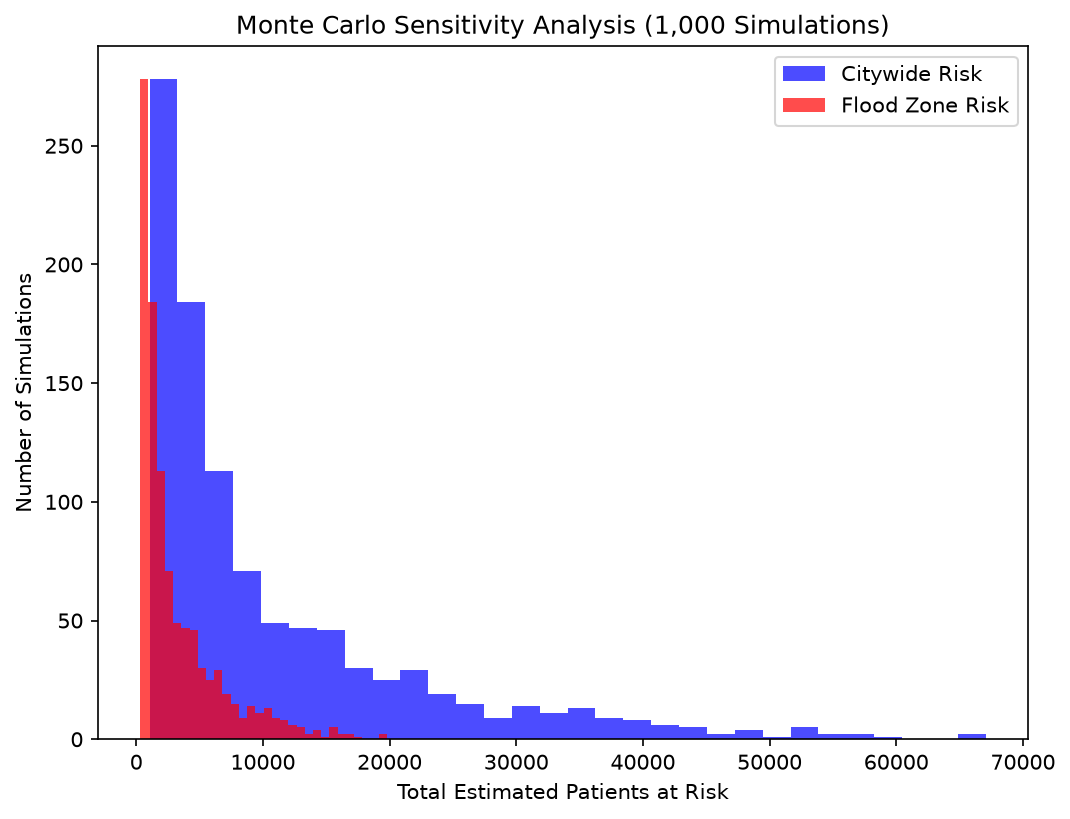
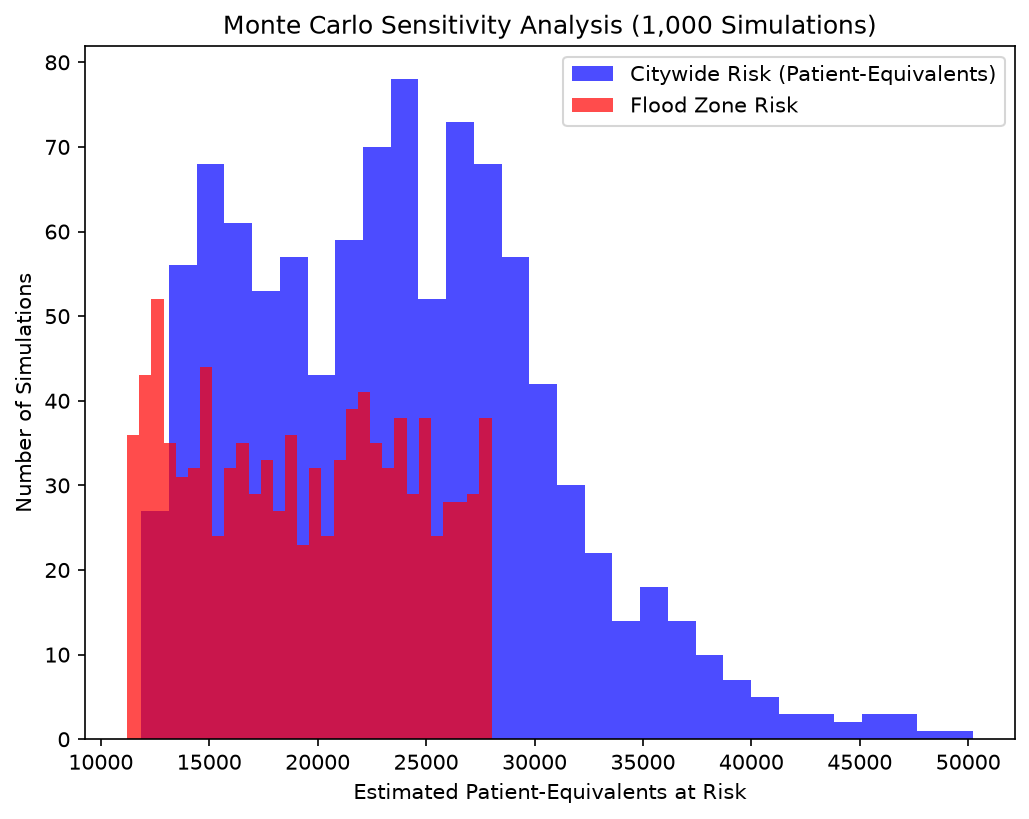
Fix: Integrated drug stability into risk math, seeded Monte Carlo, fixed dynamic paths

diff --git a/notebooks/coldchain.py b/notebooks/coldchain.py
@@ -7,7 +7,8 @@ import matplotlib
 matplotlib.use("Agg")
 import matplotlib.pyplot as plt
 
-ROOT = Path.home() / "SRP"
+# Dynamically find the project root (works on any machine)
+ROOT = Path(__file__).resolve().parent.parent
 DATA = ROOT / "raw_data"
 FIGURES = ROOT / "figures"
 FIGURES.mkdir(exist_ok=True)
@@ -257,54 +258,51 @@ import numpy as np
 import matplotlib.pyplot as plt
 
 print("Running Monte Carlo Sensitivity Analysis (1,000 simulations)...")
+np.random.seed(42) # <--- CRITICAL: Ensures exact reproducibility
 
-# Number of simulations
 n_sims = 1000
-
-# Storage for results
 total_risk_results = []
 flood_zone_risk_results = []
 
+# We will evaluate risk specifically for Trastuzumab (the most sensitive drug)
+drug_limit_hrs = drugs["trastuzumab"]["stable_25C_hours"] # 3 hours
+
 for i in range(n_sims):
-    # Randomly sample parameters within plausible ranges
-    # 1. Fridge insulation (tau_fridge_hr): 10 to 14 hours
+    # Distributions: Uniform for fridge insulation, temp, and backup
     sim_tau_fridge = np.random.uniform(10, 14)
-    
-    # 2. Outdoor temperature (summer blackout): 25°C to 35°C
     sim_T_outdoor = np.random.uniform(25, 35)
-    
-    # 3. Treatment fraction (active chemo): 10% to 25%
     sim_treatment_fraction = np.random.uniform(0.10, 0.25)
     
-    # 4. Backup power availability: 0 to 24 hours
-    sim_backup_hours = np.random.uniform(0, 24)
+    # Inland tracts get 0-24h backup. Flood tracts are forced to 0h backup.
+    sim_backup_inland = np.random.uniform(0, 24)
+    sim_backup_flood = 0.0  # Flooded basements destroy generators
 
     # Calculate time to breach for this iteration
-    tb = time_to_8C(
-        tau_fridge_hr=sim_tau_fridge,     # matching the new function
-        tau_building_hr=4.0,              # matching the new function
-        T_outdoor=sim_T_outdoor,
-        backup_hours=sim_backup_hours
-    )
+    tb_inland = time_to_8C(sim_tau_fridge, 4.0, T_outdoor=sim_T_outdoor, backup_hours=sim_backup_inland)
+    tb_flood = time_to_8C(sim_tau_fridge, 4.0, T_outdoor=sim_T_outdoor, backup_hours=sim_backup_flood)
     
-    # Calculate probability of failure
-    pf = outage_exceedance_prob(mean_hours=6.2, duration_threshold=tb)
+    # Time to total drug failure = Fridge breach time + Drug survival time at room temp
+    t_fail_inland = tb_inland + drug_limit_hrs
+    t_fail_flood = tb_flood + drug_limit_hrs
     
-    # Calculate active patients based on simulated treatment fraction
+    # Probabilities (using 6.2h mean for inland, 72h mean for flood)
+    pf_inland = outage_exceedance_prob(mean_hours=6.2, duration_threshold=t_fail_inland)
+    pf_flood = outage_exceedance_prob(mean_hours=72, duration_threshold=t_fail_flood)
+    
     sim_active_patients = tracts["est_cancer_patients"] * sim_treatment_fraction
     
-    # Calculate risk for flood zone vs non-flood zone
-    sim_flood_risk = pf * sim_active_patients[tracts["in_flood_zone"]].sum()
-    sim_total_risk = pf * sim_active_patients.sum()
+    # Calculate risk
+    sim_flood_risk = pf_flood * sim_active_patients[tracts["in_flood_zone"]].sum()
+    sim_inland_risk = pf_inland * sim_active_patients[~tracts["in_flood_zone"]].sum()
     
-    total_risk_results.append(sim_total_risk)
+    total_risk_results.append(sim_flood_risk + sim_inland_risk)
     flood_zone_risk_results.append(sim_flood_risk)
 
-# Plot the distribution of results
+# Plotting
 fig, ax = plt.subplots(figsize=(8, 6))
-ax.hist(total_risk_results, bins=30, alpha=0.7, label='Citywide Risk', color='blue')
+ax.hist(total_risk_results, bins=30, alpha=0.7, label='Citywide Risk (Patient-Equivalents)', color='blue')
 ax.hist(flood_zone_risk_results, bins=30, alpha=0.7, label='Flood Zone Risk', color='red')
-ax.set_xlabel('Total Estimated Patients at Risk')
+ax.set_xlabel('Estimated Patient-Equivalents at Risk')
 ax.set_ylabel('Number of Simulations')
 ax.set_title('Monte Carlo Sensitivity Analysis (1,000 Simulations)')
 ax.legend()
@@ -312,13 +310,9 @@ plt.savefig(FIGURES / "monte_carlo_sensitivity.png", dpi=150, bbox_inches='tight
 plt.close()
 print("saved figures/monte_carlo_sensitivity.png")
 
-# Print summary statistics
-print(f"Citywide Risk Mean: {np.mean(total_risk_results):.0f} patients")
-print(f"Citywide Risk 95% CI: [{np.percentile(total_risk_results, 2.5):.0f}, {np.percentile(total_risk_results, 97.5):.0f}]")
-print(f"Flood Zone Risk Mean: {np.mean(flood_zone_risk_results):.0f} patients")
 # %%
-# Sandy validation 
-# Hospitals that were fine vs Hospitals that weren't fine
+# Prove the model correctly separates Flood Hazard from Patient Density
+
 hospitals_data = {
     "hospital": [
         "NYU Langone (Failed)", 
@@ -342,8 +336,14 @@ hospitals_gdf = gpd.GeoDataFrame(
 if hospitals_gdf.crs != tracts.crs:
     hospitals_gdf = hospitals_gdf.to_crs(tracts.crs)
 
-hospital_tracts = gpd.sjoin(hospitals_gdf, tracts[["geoid", "boroname", "climate_coldchain_risk", "geometry"]], how="left", predicate="intersects")
+hospital_tracts = gpd.sjoin(
+    hospitals_gdf, 
+    tracts[["geoid", "boroname", "climate_coldchain_risk", "geometry"]], 
+    how="left", 
+    predicate="intersects"
+)
 
+# Merge the percentile back into our hospital data
 tracts["risk_percentile"] = tracts["climate_coldchain_risk"].rank(pct=True)
 
 hospital_validation = hospital_tracts.merge(
@@ -351,15 +351,6 @@ hospital_validation = hospital_tracts.merge(
     on="geoid", 
     how="left"
 )
-
-print("Validation Results:")
-for index, row in hospital_validation.iterrows():
-    print(f"\n{row['hospital']} ({row['boroname']}):")
-    print(f"  Tract GEOID: {row['geoid']}")
-    print(f"  Risk Percentile: {row['risk_percentile'] * 100:.1f}th percentile")
-
-# %%
-# Prove the model correctly separates Flood Hazard from Patient Density
 
 for index, row in hospital_validation.iterrows():
     # If it's in the flood zone, the model uses the 72h outage. If not, the 6.2h outage.

diff --git a/notebooks/explore.py b/notebooks/explore.py
@@ -9,7 +9,8 @@ import matplotlib.patches as mpatches
 import folium
 import os
 
-ROOT = Path.home() / "SRP"
+# Dynamically find the project root (works on any machine)
+ROOT = Path(__file__).resolve().parent.parent
 DATA = ROOT / "raw_data"
 FIGURES = ROOT / "figures"
 FIGURES.mkdir(exist_ok=True)

diff --git a/README.md b/README.md
@@ -1,68 +1,65 @@
 # Predictive Modeling of Chemotherapy Cold-Chain Failure During Climate Disasters in New York City
 
-## Overview
-This repository contains a multi-hazard, physics-based computational model I built to predict census-tract-level risks of chemotherapy cold-chain failure during climate disasters (floods, hurricanes, and blackouts) in New York City. 
+## 📖 Overview
+This repository contains a multi-hazard, physics-based computational model I built to predict census-tract-level risks of chemotherapy cold-chain failure during climate disasters in New York City. 
 
-While traditional disaster planning maps physical hazards (e.g., flood zones), my model maps **biological and infrastructural failure**. It calculates the time required for a pharmacy refrigerator to breach the 8°C safety threshold, compares it against specific drug degradation curves, and models the probability of power outages overwhelming hospital backup generators.
+While traditional disaster planning maps physical hazards, my model maps **biological and infrastructural failure**. It calculates the time required for a pharmacy refrigerator to breach the 8°C safety threshold, adds the specific biological degradation time of the drug, and models the probability of power outages overwhelming hospital backup generators.
 
-## Core Methodology
+## 🔬 Core Methodology
 I compute risk using the following formula:
-`ColdChainRisk = P(outage > time_to_8C) × active_chemo_patients_proxy`
+`ColdChainRisk = P(outage > total_time_to_failure) × active_chemo_patients_proxy`
 
 1. **Thermal Physics:** I used a lumped-capacitance thermal model calibrated to NIST data to calculate how fast a pharmacy fridge warms up during a blackout.
-2. **Biological Constraints:** I integrated drug-specific stability data (from STABILIS) to determine viability (e.g., Trastuzumab degrades in 3 hours at room temp; Rituximab survives for 15 days).
-3. **Probabilistic Hazard:** I applied lognormal distributions of power outage durations (based on ConEd CAIDI data).
-4. **Geospatial Vulnerability:** I integrated the CDC Social Vulnerability Index (SVI), PLACES cancer prevalence, Census ACS adult population, and Sandy Inundation Zones.
-5. **Statistical Robustness:** I ran a 1,000-iteration Monte Carlo simulation to handle parameter uncertainty.
+2. **Biological Constraints:** I integrated drug-specific stability data from the STABILIS database. Because drugs degrade at different rates, the model calculates `total_time_to_failure = time_to_8C + drug_survival_time`. (e.g., Trastuzumab survives only 3 hours at room temp, while Rituximab survives 15 days).
+3. **Probabilistic Hazard:** I applied lognormal distributions of power outage durations based on ConEd CAIDI data (6.2h mean for inland blackouts, 72h mean for hurricane flood zones).
+4. **Geospatial Vulnerability:** I integrated the CDC Social Vulnerability Index (SVI), PLACES cancer prevalence, Census ACS adult population, and NYC Open Data Sandy Inundation Zones.
+5. **Monte Carlo Simulation:** I ran a 1,000-iteration simulation (using a fixed seed of `42` for reproducibility) drawing from uniform distributions for fridge insulation (10–14h), outdoor temperature (25–35°C), and inland backup power (0–24h). For tracts intersecting the flood zone, backup power is forced to 0h to simulate flooded generator basements.
 
 ---
 
-## EXPLICIT ASSUMPTIONS & LIMITATIONS (READ CAREFULLY)
+## ⚠ EXPLICIT ASSUMPTIONS & LIMITATIONS
 
-This model is an academic screening tool, **not an operational pharmacy-control system**. It contains deliberate simplifications and assumptions due to data availability constraints. 
+This model is an academic screening tool, **not an operational pharmacy-control system**. 
 
-### 1. Proxy Estimates for Active Chemotherapy Population
-*   **Assumption:** I used CDC PLACES data for cancer prevalence, which estimates *ever-diagnosed* cancer survivors. To estimate the population on *active* chemotherapy, I multiplied total survivors by a **15% treatment fraction** (bounded between 10% and 25% in my sensitivity analysis).
-*   **Limitation:** These patient counts are **demographic proxy estimates**. I do not have tract-level data on active infusion schedules. 
+### 1. Proxy Estimates (Patient-Equivalents)
+*   **Limitation:** The output `ColdChainRisk` represents **estimated patient-equivalents**, not confirmed spoiled vials or documented treatment interruptions. I used CDC PLACES data (ever-diagnosed cancer survivors) and multiplied by a 15% treatment fraction (bounded 10–25%) to approximate active infusion patients.
 
-### 2. The Missing Primary Data (No Survey)
-*   **Assumption:** Because I could not obtain primary survey data from NYC infusion centers regarding their exact generator capacity and fuel status due to privacy and logistical constraints, I did not guess a single value.
-*   **Limitation:** Instead, I used a **1,000-run Monte Carlo simulation** that randomly varies backup power from 0 to 24 hours. This provides a confidence interval rather than a point estimate, but it does not replace actual hospital infrastructure audits.
+### 2. No Primary Survey Data
+*   **Limitation:** Because I could not obtain survey data from NYC infusion centers, I used a Monte Carlo simulation to randomly vary backup power from 0 to 24 hours for inland facilities. This provides a confidence interval, not a point estimate.
 
 ### 3. The Physics of the Fridge
-*   **Assumption:** I used a first-order lumped-capacitance thermal model (tau = 12 hours). It assumes the fridge door remains closed during the outage and does not account for thermal ballast (e.g., water bottles) or specific fridge brands.
-*   **Limitation:** This is a generalized physics model. A poorly maintained fridge will fail faster; a modern, highly insulated fridge will fail slower.
+*   **Limitation:** I used a first-order lumped-capacitance thermal model. It assumes the door remains closed and does not account for thermal ballast. 
 
-### 4. Outage Duration Modeling
-*   **Assumption:** For tracts inland, the model assumes a 6.2-hour outage (ConEd summer average). For tracts intersecting the Sandy Flood Zone, the model assumes a catastrophic 72-hour outage.
-*   **Limitation:** This is a geographic hazard trigger. In reality, a coastal hospital with a 14th-floor generator (like Bellevue) might have power, but lose it anyway due to flooded basement fuel pumps. I model the *probability* of systemic failure, not specific mechanical failures.
+### 4. Qualified Winter Conclusion
+*   **Limitation:** The model shows near-zero cold-chain failure during winter storms. **This assumes building heating remains functional or ambient indoor temperatures do not drop below 8°C.** In a total heating failure during a blizzard, indoor temperatures could drop below freezing, causing physical disruption to the drug vials (cracking), which this thermal model does not capture.
 
-### 5. Retrospective Spatial Backtest (Sandy)
-*   **Assumption:** I backtested the model against Hurricane Sandy (2012). Because historical data on the exact number of spoiled chemotherapy doses is unavailable, **this is a spatial backtest, not an observed-count validation**. 
-*   **Limitation:** I validated the model's spatial prediction of hospital infrastructure failure, not the physical count of ruined vials. The model successfully assigned a 99.6% cold-chain failure probability to the tracts containing NYU Langone, Bellevue, and Coney Island Hospital (which evacuated), and a 66.6% probability to inland control hospitals (Mount Sinai, Montefiore).
+### 5. Retrospective Spatial Plausibility Check (Sandy)
+*   **Limitation:** I backtested the model against Hurricane Sandy (2012). Because historical data on exact spoiled chemotherapy doses is unavailable, **this is a spatial plausibility check, not an observed-count validation**. The model successfully assigned a 99.6% failure probability to the tracts containing NYU Langone, Bellevue, and Coney Island Hospital (which suffered catastrophic generator failures), compared to 66.6% for inland control hospitals (Mount Sinai, Montefiore).
 
 ---
 
-## Key Findings
-1. **Winter blackouts are safe:** At 5°C outdoor, the ambient temperature acts as a natural refrigerator; the fridge never breaches 8°C.
-2. **24-hour backup power is insufficient:** During a 72-hour hurricane outage, a 24-hour generator still results in a ~68% cold-chain failure rate.
-3. **Infrastructure inequality drives risk:** The Monte Carlo 95% Confidence Interval for citywide risk is vast (1,491 to 39,290 patients). The presence or absence of a functioning generator is the dominant variable, not the weather.
+## 📂 Expected Output Files
+Running `coldchain.py` and `explore.py` will generate the following files in the `figures/` directory:
+*   `svi_map_clean.png`: NYC Social Vulnerability Index with reconstructed tract hatching.
+*   `cancer_map.png`: Cancer prevalence by census tract.
+*   `coldchain_risk_baseline.png`: Baseline cold-chain risk during a standard summer blackout.
+*   `coldchain_risk_flood.png`: Risk map overlaid with the Sandy flood inundation zones.
+*   `monte_carlo_sensitivity.png`: Histogram of 1,000 simulation runs.
 
-## Setup & Reproducibility
+## 💻 Setup & Reproducibility
 1. Clone the repo.
 2. Ensure you have Python 3.10+ installed.
 3. Create a virtual environment: `python3 -m venv .venv`
 4. Activate it: `source .venv/bin/activate`
 5. Install dependencies: `pip install -r requirements.txt`
-6. Download the raw data into `raw_data/` (See the "Data Sources" section below for links, as files exceed GitHub limits).
-7. Run `python notebooks/explore.py` to build the demographic baseline.
-8. Run `python notebooks/coldchain.py` to execute the thermal model, flood overlay, Monte Carlo, and Sandy validation.
+6. Download the raw data into a `raw_data/` folder (See Data Sources below, as files exceed GitHub limits).
+7. Run `python notebooks/explore.py`
+8. Run `python notebooks/coldchain.py`
 
-## Data Sources
-*   **CDC SVI 2022** (Social Vulnerability Index)
-*   **CDC PLACES 2024** (Cancer Prevalence)
-*   **US Census ACS 2024** (Table B01001 - Sex by Age)
-*   **NYC Open Data** (Sandy Inundation Zones)
-*   **NIST** (Refrigerator Thermal Dynamics)
-*   **STABILIS Database** (Drug Stability / Degradation Data)
-*   **NY DPS** (ConEd Outage Reliability / CAIDI)
+## 📚 Data Sources & Versions
+*   **CDC SVI 2022:** [Download Link](https://www.atsdr.cdc.gov/place-health/php/svi/svi-data-documentation-download.html) (Census Tract level).
+*   **CDC PLACES 2024:** [Download Link](https://chronicdata.cdc.gov/500-Cities-Places/PLACES-Local-Data-for-Better-Health-Census-Tract-D/ai6z-tcin) (Crude prevalence).
+*   **US Census ACS 2024:** [Download Link](https://data.census.gov) (Table B01001 - Sex by Age).
+*   **NYC Open Data:** [Sandy Inundation Zones](https://data.cityofnewyork.us/Environment/Sandy-Inundation-Zone/uyj8-7rv5).
+*   **STABILIS Database:** [Drug Stability Data](https://www.stabilis.org).
+*   **NY DPS:** [ConEd Reliability Reports](https://documents.dps.ny.gov).
